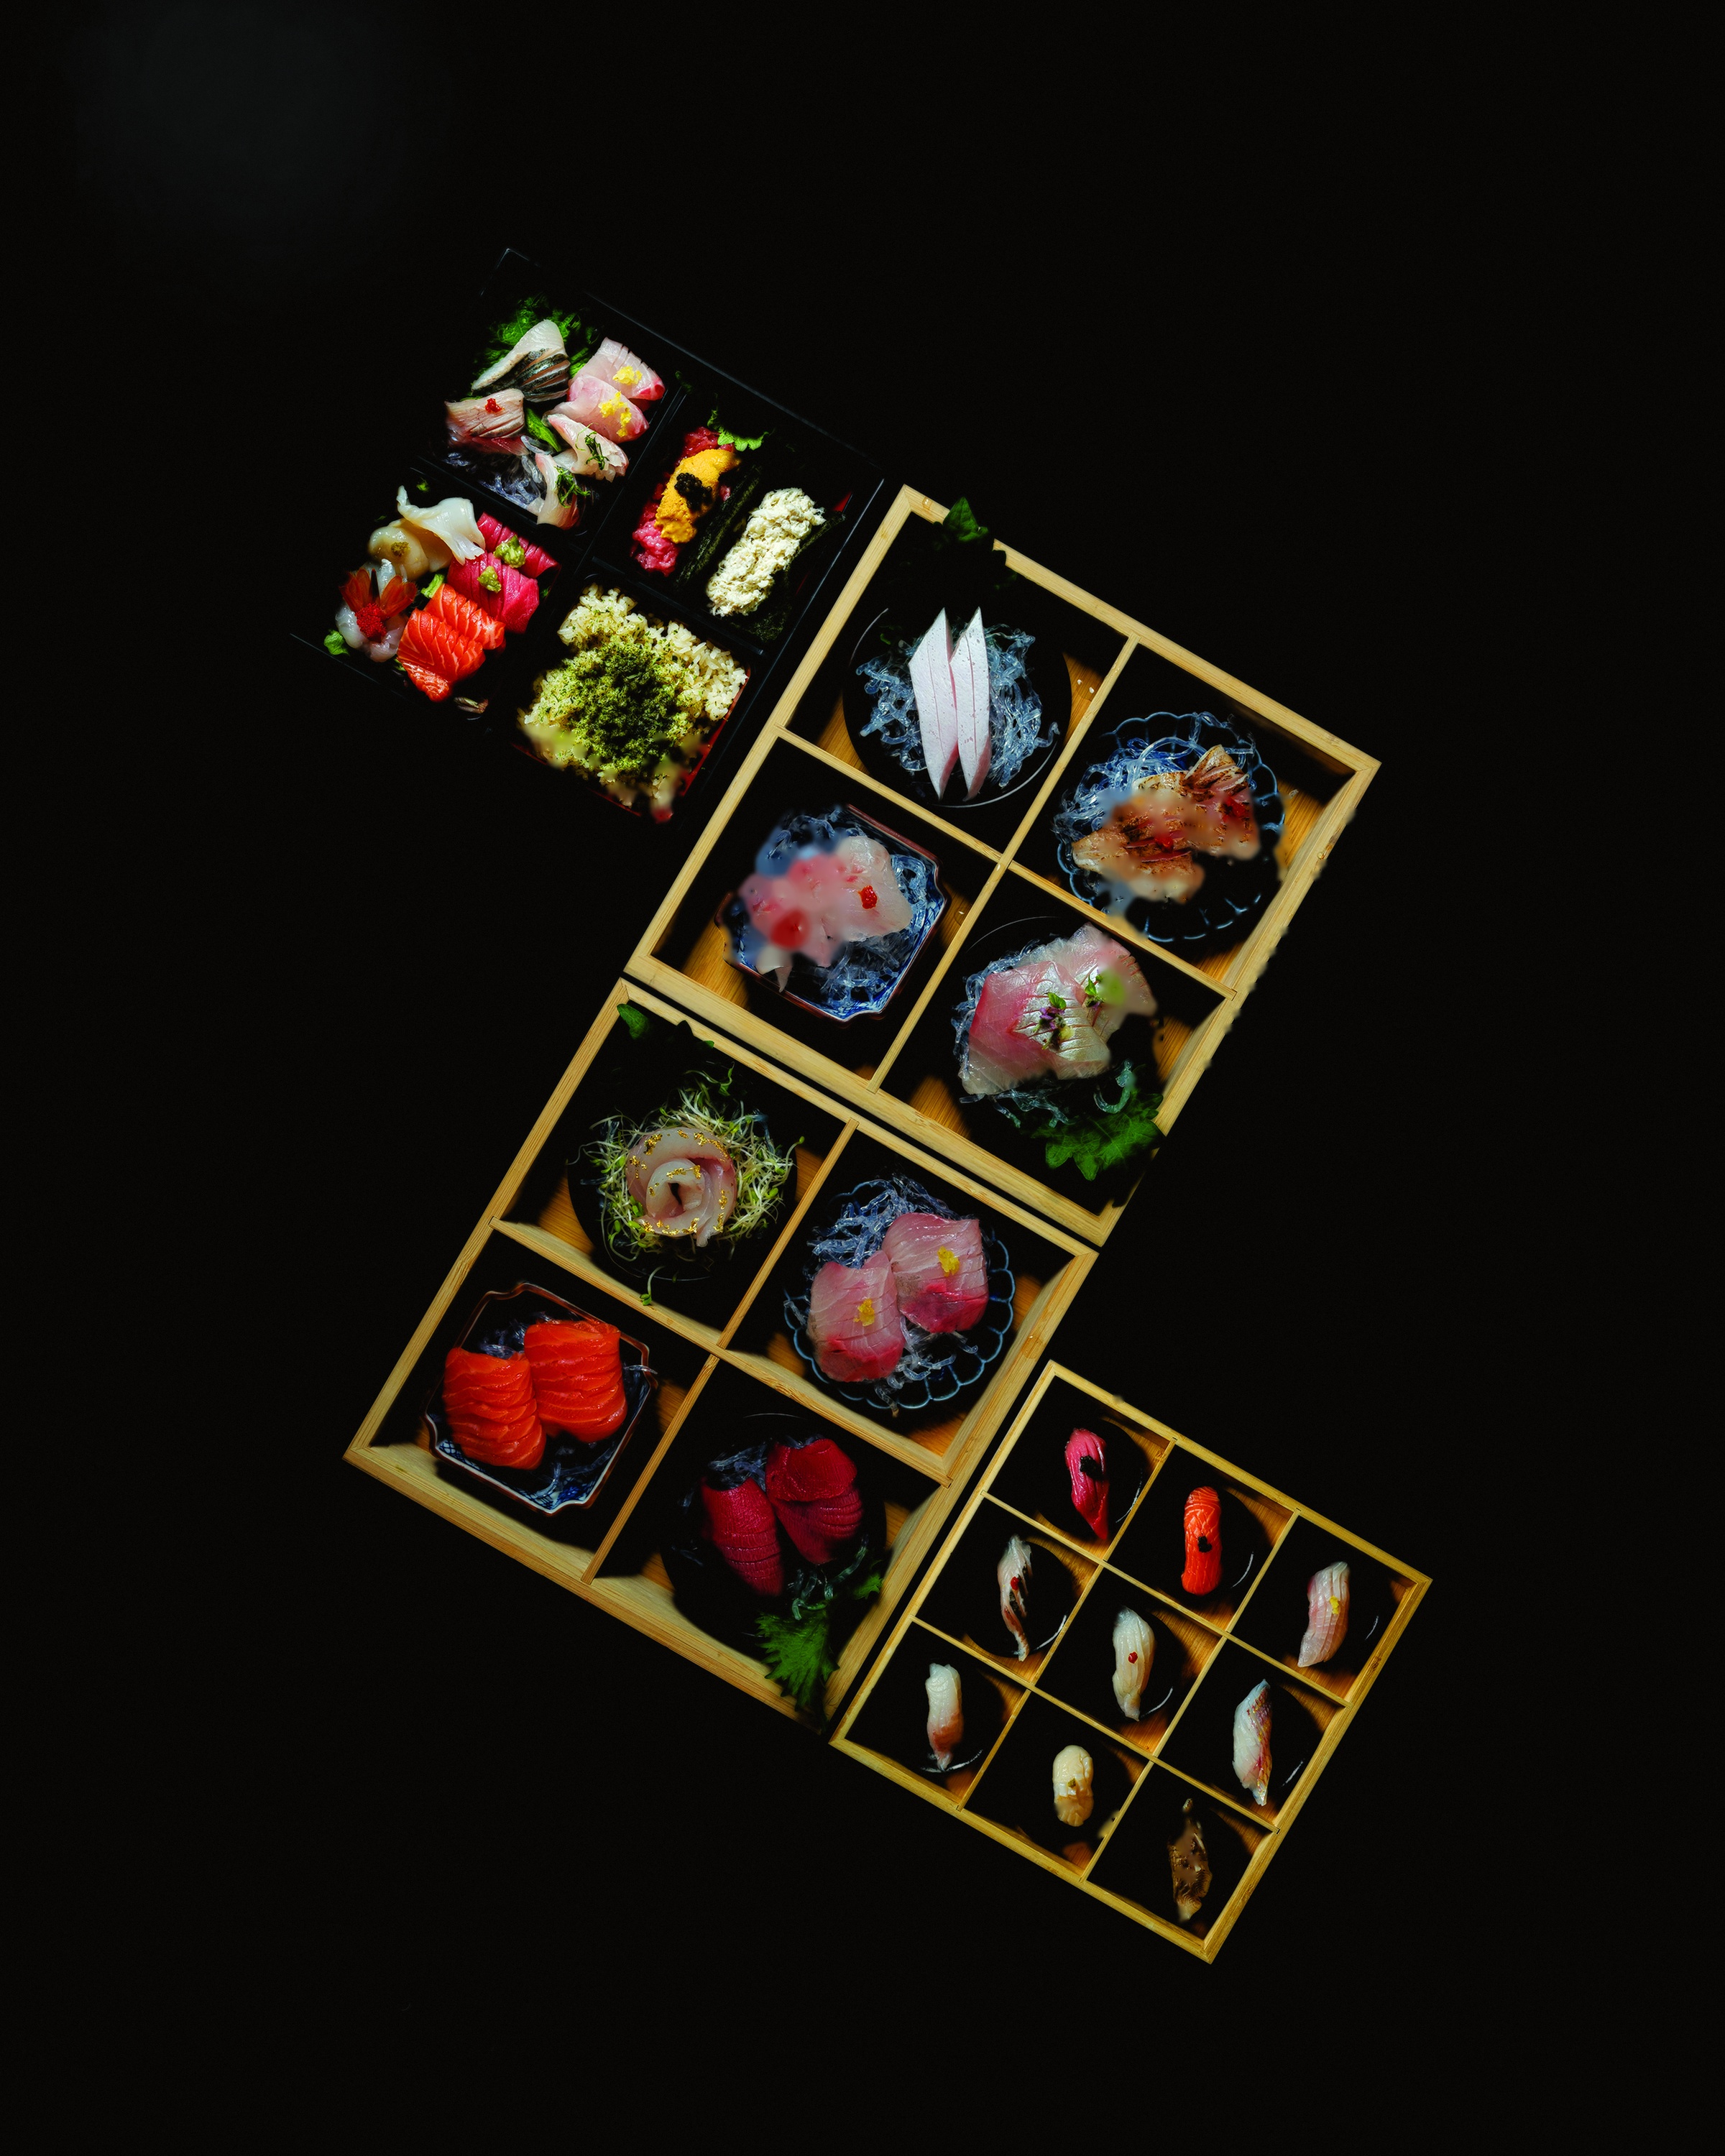
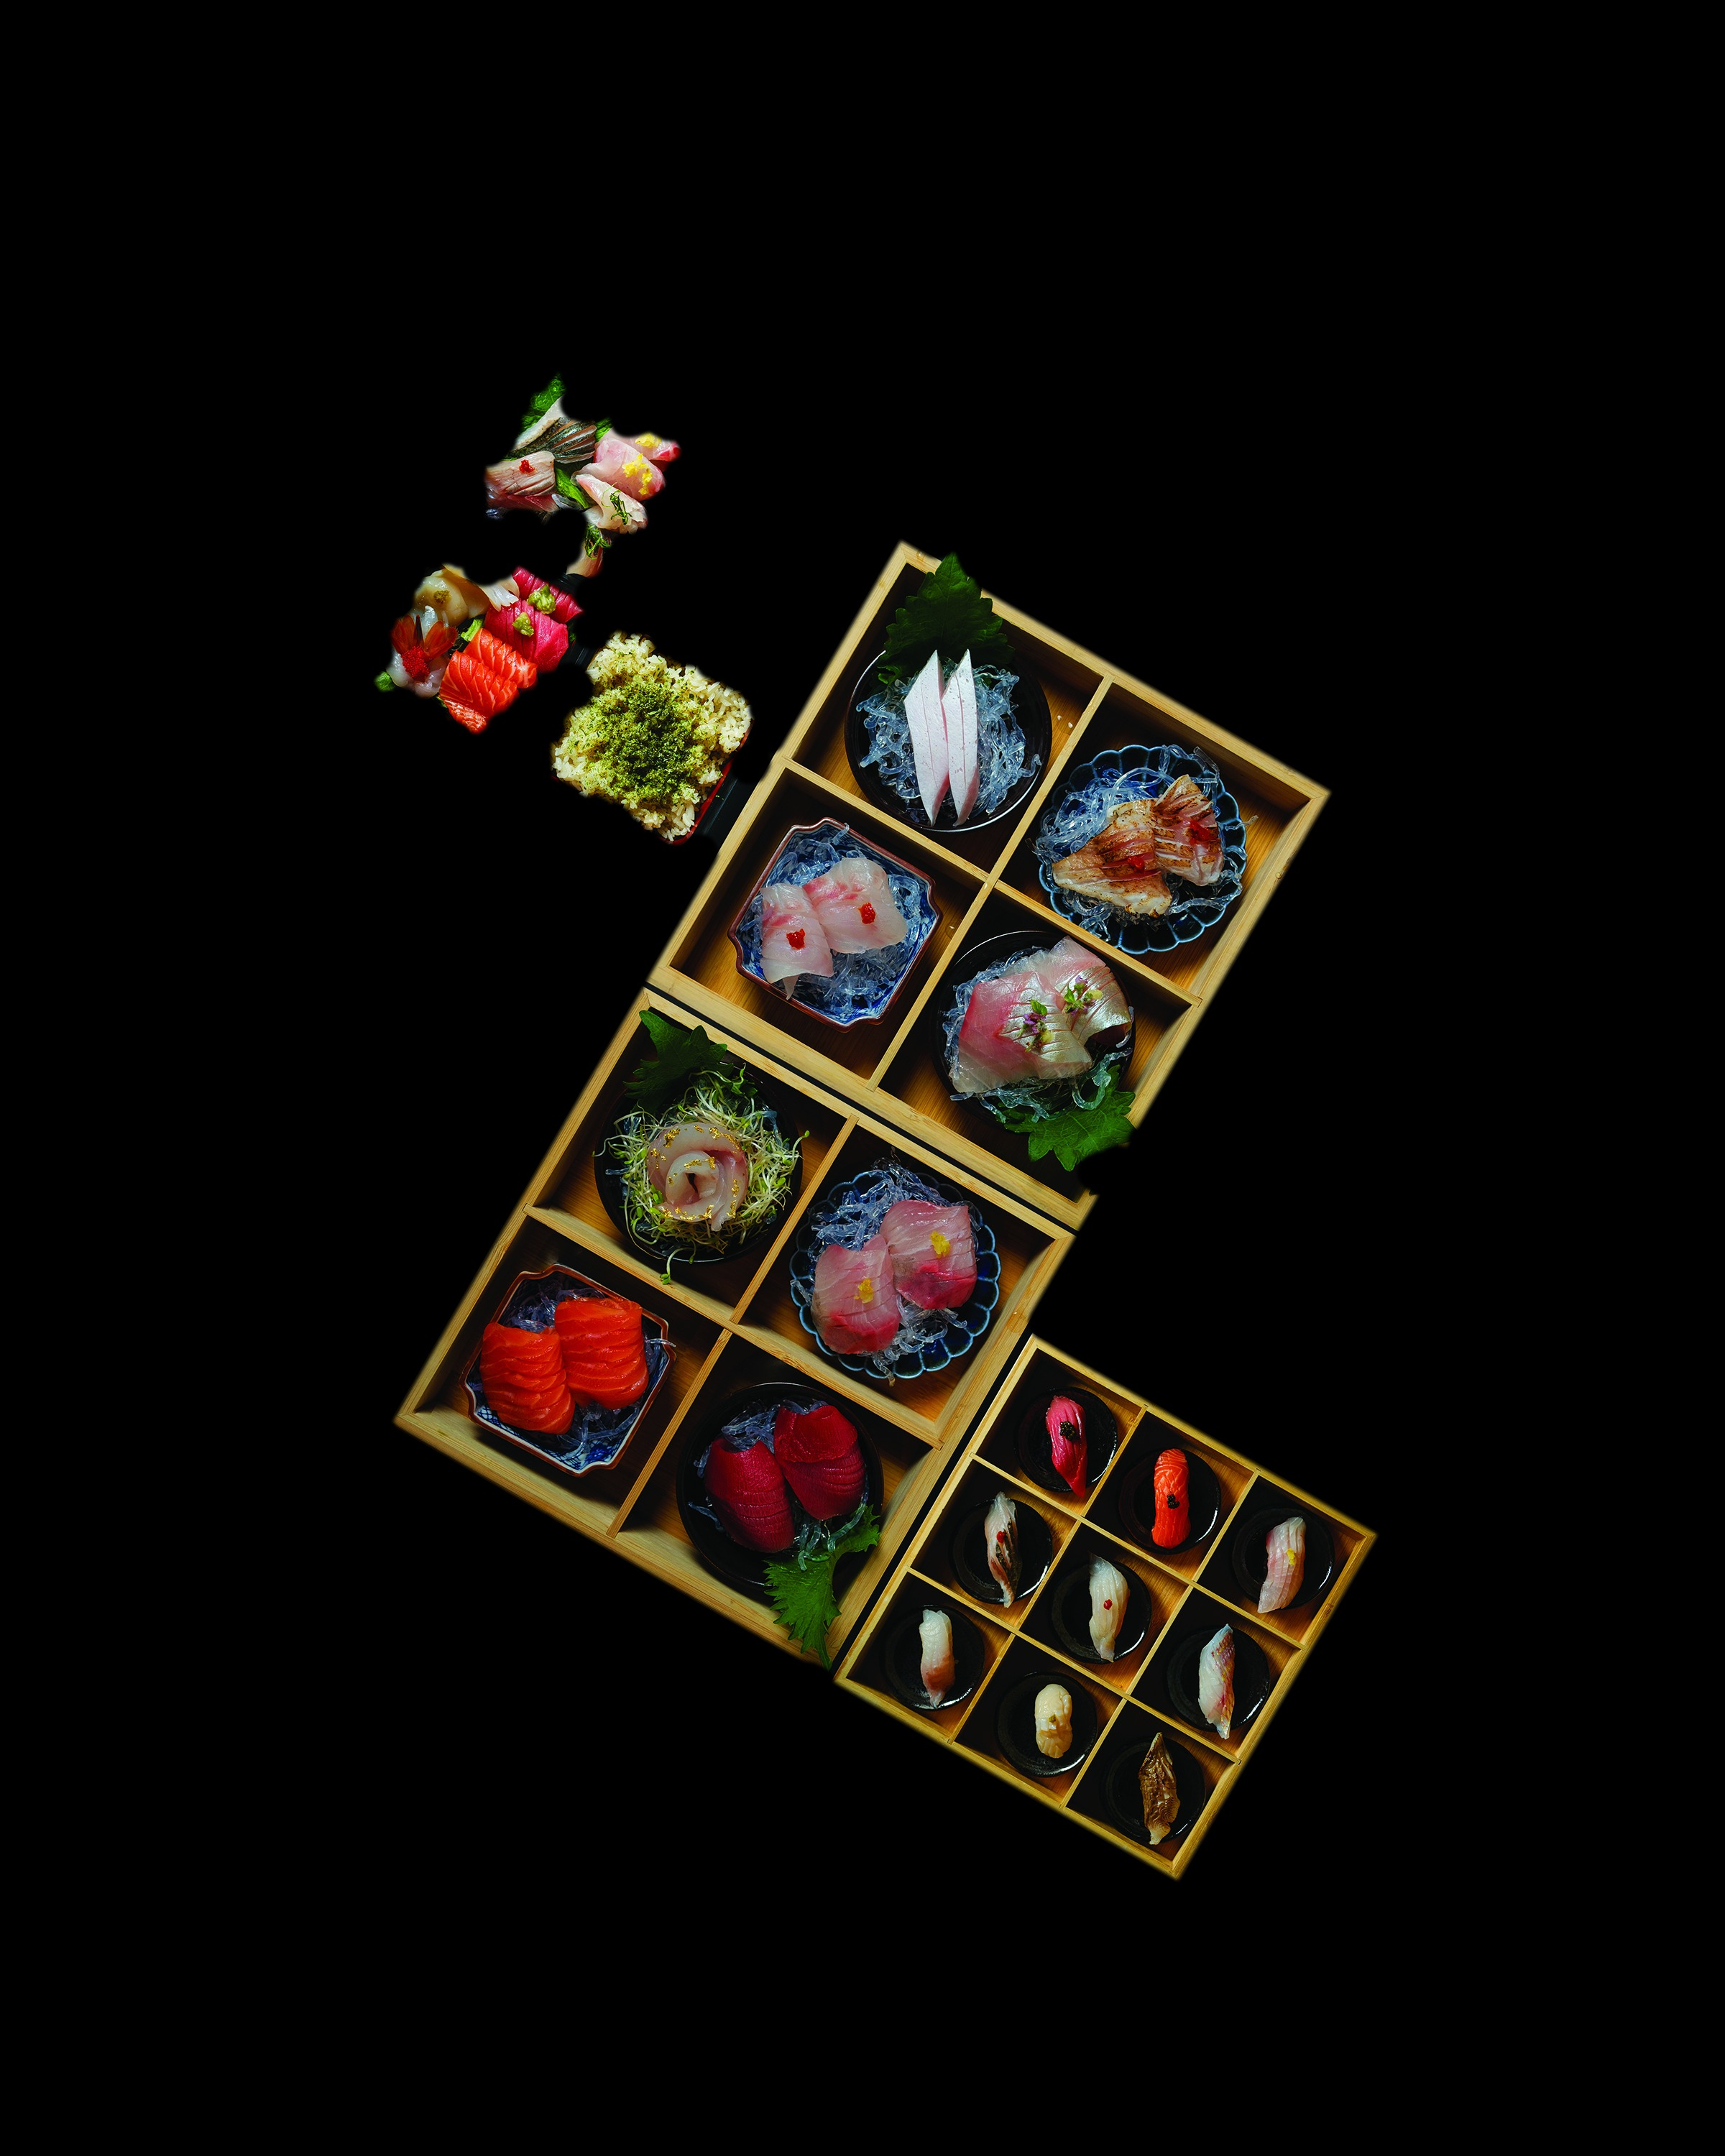
checkpoint: WIP before design-critic contrast/CTA fixes

Changed region(s): [[0.1875, 0.124, 0.8438, 0.93]]

diff --git a/src/pages/Home.jsx b/src/pages/Home.jsx
@@ -1,3 +1,4 @@
+import { useState, useEffect } from 'react'
 import { Link } from 'react-router-dom'
 
 const FEATURED = [
@@ -15,6 +16,9 @@ export default function Home() {
     <div>
       {/* ─── HERO ──────────────────────────────────────────── */}
       <section className="relative min-h-screen flex flex-col items-center justify-center overflow-hidden bg-void">
+        {/* Background photography — submerged beneath the theme */}
+        <div className="hero-photo" style={{ backgroundImage: 'url(/hero/hero-home.jpg)', backgroundPosition: 'center 38%' }} aria-hidden="true" />
+        <div className="hero-scrim" aria-hidden="true" />
         {/* Ambient radial glow */}
         <div className="absolute inset-0 pointer-events-none"
           style={{ background: 'radial-gradient(ellipse 65% 55% at 50% 42%, rgba(200,169,110,0.055) 0%, transparent 65%)' }}
@@ -90,8 +94,8 @@ export default function Home() {
 
             <div className="relative">
               <div className="aspect-[4/5] overflow-hidden shadow-card-up">
-                <img src="/8X10_PRINT_3BOX.jpg" alt="Taberu sushi presentation" className="w-full h-full object-cover" />
-                <div className="absolute inset-0 bg-gradient-to-t from-black/50 to-transparent mix-blend-multiply" />
+                <img src="/8X10_PRINT_3BOX.jpg" alt="Taberu sushi presentation" className="w-full h-full object-cover" style={{ filter: 'contrast(0.86) brightness(1.03)' }} />
+                <div className="absolute inset-0 bg-gradient-to-t from-black/40 to-transparent mix-blend-multiply" />
               </div>
               <div className="absolute -bottom-5 -right-5 w-24 h-24 border-b border-r border-gold/20 hidden md:block" />
               <div className="absolute -top-5 -left-5 w-24 h-24 border-t border-l border-gold/20 hidden md:block" />
@@ -204,42 +208,86 @@ function DishCard({ dish }) {
   )
 }
 
-const IG_PLACEHOLDERS = [
-  { c: '1c1a16', t: 'Nigiri+Set' },
-  { c: '242119', t: 'Sashimi' },
-  { c: '2d2a23', t: 'Omakase' },
-  { c: '3d392f', t: 'Uni+Nigiri' },
-  { c: '1c1a16', t: 'Toro' },
-  { c: '242119', t: 'Chirashi' },
+// Mock Instagram feed — first-frame stills from the @taberu__sushi fish-feature reels.
+// Ordered for visual variety (red / silver / dark fish interleaved).
+// To go live, paste a real BEHOLD_FEED_ID above and this static grid is bypassed.
+const IG_FEED = [
+  { src: '/feed/madai.jpg',          alt: 'Madai · red sea bream' },
+  { src: '/feed/kohada.jpg',         alt: 'Kohada · gizzard shad' },
+  { src: '/feed/blackcod.jpg',       alt: 'Black cod · sablefish' },
+  { src: '/feed/shimaaji.jpg',       alt: 'Shima aji · striped jack' },
+  { src: '/feed/kinmedai.jpg',       alt: 'Kinmedai · golden eye snapper' },
+  { src: '/feed/sayori.jpg',         alt: 'Sayori · halfbeak' },
+  { src: '/feed/kanpachi.jpg',       alt: 'Kanpachi · amberjack' },
+  { src: '/feed/kurodai.jpg',        alt: 'Kurodai · black sea bream' },
+  { src: '/feed/fujisalmon.jpg',     alt: 'Fuji salmon' },
+  { src: '/feed/itoyori.jpg',        alt: 'Itoyori · threadfin bream' },
+  { src: '/feed/matsukawagarei.jpg', alt: 'Matsukawa garei · flounder' },
+  { src: '/feed/kamasu.jpg',         alt: 'Kamasu · barracuda' },
+  { src: '/feed/mejina.jpg',         alt: 'Mejina · largescale blackfish' },
+  { src: '/feed/ojisan.jpg',         alt: 'Ojisan · goatfish' },
+  { src: '/feed/sagoshi.jpg',        alt: 'Sagoshi · Spanish mackerel' },
 ]
+
+// How many tiles are visible at once, and how often one swaps for a fresh fish.
+const FEED_VISIBLE = 8
+const FEED_ROTATE_MS = 3200
+
+// Static fallback feed: shows 8 of the 16 fish at a time and rotates one tile
+// at a time so the whole catalog cycles through, mimicking a live feed.
+function RotatingFeed() {
+  const [tiles, setTiles] = useState(() =>
+    IG_FEED.slice(0, FEED_VISIBLE).map((item, i) => ({ ...item, gen: i }))
+  )
+
+  useEffect(() => {
+    if (IG_FEED.length <= FEED_VISIBLE) return
+    let next = FEED_VISIBLE % IG_FEED.length
+    let slot = 0
+    let gen = FEED_VISIBLE
+    const id = setInterval(() => {
+      setTiles((prev) => {
+        const copy = prev.slice()
+        copy[slot] = { ...IG_FEED[next], gen }
+        return copy
+      })
+      next = (next + 1) % IG_FEED.length
+      slot = (slot + 1) % FEED_VISIBLE
+      gen += 1
+    }, FEED_ROTATE_MS)
+    return () => clearInterval(id)
+  }, [])
+
+  return (
+    <div className="grid grid-cols-2 md:grid-cols-4 gap-2 md:gap-3">
+      {tiles.map((item, i) => (
+        <a
+          key={i}
+          href="https://instagram.com/taberu__sushi"
+          target="_blank"
+          rel="noopener noreferrer"
+          className="group relative aspect-square overflow-hidden block focus-visible:outline-2 focus-visible:outline-gold focus-visible:outline-offset-2"
+        >
+          <img
+            key={item.gen}
+            src={item.src}
+            alt={item.alt}
+            loading="lazy"
+            className="anim-fade-in w-full h-full object-cover transition-transform duration-700 group-hover:scale-105"
+          />
+          <div className="absolute inset-0 bg-black/0 group-hover:bg-black/45 transition-colors duration-400 flex items-center justify-center">
+            <IgIconLg className="text-ivory opacity-0 group-hover:opacity-100 transition-opacity duration-300 w-7 h-7" />
+          </div>
+        </a>
+      ))}
+    </div>
+  )
+}
 
 function BeholdGrid({ feedId }) {
   const isPlaceholder = !feedId || feedId === 'YOUR_FEED_ID'
 
-  if (isPlaceholder) {
-    return (
-      <div className="grid grid-cols-3 gap-2 md:gap-3">
-        {IG_PLACEHOLDERS.map(({ c, t }, i) => (
-          <a
-            key={i}
-            href="https://instagram.com/taberu__sushi"
-            target="_blank"
-            rel="noopener noreferrer"
-            className="group relative aspect-square overflow-hidden block focus-visible:outline-2 focus-visible:outline-gold focus-visible:outline-offset-2"
-          >
-            <img
-              src={`https://placehold.co/600x600/${c}/c8a96e?text=${t}`}
-              alt={t.replace('+', ' ')}
-              className="w-full h-full object-cover transition-transform duration-700 group-hover:scale-105"
-            />
-            <div className="absolute inset-0 bg-black/0 group-hover:bg-black/45 transition-colors duration-400 flex items-center justify-center">
-              <IgIconLg className="text-ivory opacity-0 group-hover:opacity-100 transition-opacity duration-300 w-7 h-7" />
-            </div>
-          </a>
-        ))}
-      </div>
-    )
-  }
+  if (isPlaceholder) return <RotatingFeed />
 
   return <behold-widget feed-id={feedId} />
 }

diff --git a/src/pages/About.jsx b/src/pages/About.jsx
@@ -1,10 +1,10 @@
 import { Link } from 'react-router-dom'
 
 const VALUES = [
-  { kanji: '旬', romaji: 'Shun',   title: 'Seasonality',     desc: 'We serve only what the season provides. No shortcuts. No frozen fish. Every piece reflects the current moment in nature.' },
-  { kanji: '技', romaji: 'Waza',   title: 'Technique',       desc: 'Years of practice behind every cut. The angle of the knife, the pressure of the hand, the temperature of the rice — all matter.' },
-  { kanji: '誠', romaji: 'Makoto', title: 'Integrity',       desc: 'Honest sourcing, transparent preparation, genuine hospitality. No theater. No fusion gimmicks. Just the fish, the rice, and the craft.' },
-  { kanji: '間', romaji: 'Ma',     title: 'Negative Space',  desc: 'The beauty in what is left out. We resist overcomplication. A great piece of sushi needs nothing added.' },
+  { kanji: '旬', romaji: 'Shun',   title: 'Seasonality',     img: '/principles/seasonality.jpg',    desc: 'We serve only what the season provides. No shortcuts. No frozen fish. Every piece reflects the current moment in nature.' },
+  { kanji: '技', romaji: 'Waza',   title: 'Technique',       img: '/principles/technique.jpg',      desc: 'Years of practice behind every cut. The angle of the knife, the pressure of the hand, the temperature of the rice — all matter.' },
+  { kanji: '誠', romaji: 'Makoto', title: 'Integrity',       img: '/principles/integrity.jpg',      desc: 'Honest sourcing, transparent preparation, genuine hospitality. No theater. No fusion gimmicks. Just the fish, the rice, and the craft.' },
+  { kanji: '間', romaji: 'Ma',     title: 'Negative Space',  img: '/principles/negative-space.jpg', desc: 'The beauty in what is left out. We resist overcomplication. A great piece of sushi needs nothing added.' },
 ]
 
 export default function About() {
@@ -12,6 +12,9 @@ export default function About() {
     <div className="min-h-screen bg-obsidian pt-18">
       {/* Hero */}
       <div className="relative overflow-hidden py-20 md:py-32 bg-carbon">
+        {/* Background photography — submerged beneath the theme */}
+        <div className="hero-photo" style={{ backgroundImage: 'url(/hero/hero-about.jpg)', backgroundPosition: 'center 55%' }} aria-hidden="true" />
+        <div className="hero-scrim hero-scrim-left" aria-hidden="true" />
         <div className="absolute inset-0 pointer-events-none"
           style={{ background: 'radial-gradient(ellipse 65% 65% at 50% 100%, rgba(200,169,110,0.06) 0%, transparent 60%)' }}
         />
@@ -19,11 +22,11 @@ export default function About() {
           <div className="max-w-2xl">
             <p className="label-caps mb-5">Our Philosophy</p>
             <h1 className="font-display text-ivory mb-6 tracking-display" style={{ fontSize: 'var(--font-size-hero)', lineHeight: 'var(--line-height-hero)' }}>
-              The art of<br />
-              <span className="italic text-gradient">knowing when to stop</span>
+              We serve<br />
+              <span className="italic text-gradient">what the day gives</span>
             </h1>
             <p className="font-body text-parchment/80 text-base leading-body max-w-lg">
-              Great sushi is not defined by what you add — it is defined by knowing when to stop.
+              No frozen fish. No fixed menu. No shortcuts. Every piece reflects the season's best — chosen that morning, served that night.
             </p>
           </div>
         </div>
@@ -52,14 +55,14 @@ export default function About() {
 
             <div className="relative">
               <div className="aspect-[4/5] overflow-hidden shadow-card-up">
-                <img src="https://placehold.co/600x750/1c1a16/c8a96e?text=Chef+%2F+Team" alt="Taberu team" className="w-full h-full object-cover" />
+                <img src="/taberu-team.jpg" alt="Taberu itamae preparing sashimi behind the counter" className="w-full h-full object-cover" />
                 <div className="absolute inset-0 bg-gradient-to-t from-black/55 to-transparent mix-blend-multiply" />
               </div>
               <div className="absolute -bottom-6 -right-6 w-24 h-24 border-b border-r border-gold/18 hidden md:block" style={{ borderColor: 'rgba(200,169,110,0.18)' }} />
               <div className="absolute -top-4 -left-4 w-24 h-24 border-t border-l border-gold/18 hidden md:block" style={{ borderColor: 'rgba(200,169,110,0.18)' }} />
               {/* Floating secondary image */}
               <div className="absolute -bottom-10 -right-8 w-2/3 overflow-hidden shadow-card hidden md:block">
-                <img src="https://placehold.co/400x400/242119/8c7448?text=Interior" alt="Restaurant interior" className="w-full h-full object-cover" />
+                <img src="/taberu-interior.jpg" alt="Taberu Sushi dining room and sushi counter" className="w-full h-full object-cover" />
                 <div className="absolute inset-0 bg-gradient-to-t from-black/45 to-transparent mix-blend-multiply" />
               </div>
             </div>
@@ -89,7 +92,7 @@ export default function About() {
           <div className="grid md:grid-cols-2 gap-14 md:gap-18 items-center">
             <div className="relative order-2 md:order-1">
               <div className="aspect-[3/4] overflow-hidden shadow-card-up">
-                <img src="https://placehold.co/500x667/1c1a16/c8a96e?text=Omakase+Course" alt="Omakase presentation" className="w-full h-full object-cover" />
+                <img src="/frames/OMAKASE.jpg" alt="Taberu omakase course presentation" className="w-full h-full object-cover" />
                 <div className="absolute inset-0 bg-gradient-to-t from-black/50 to-transparent mix-blend-multiply" />
               </div>
               <div className="absolute -bottom-4 -right-4 w-20 h-20 border-b border-r hidden md:block" style={{ borderColor: 'rgba(200,169,110,0.18)' }} />
@@ -127,22 +130,35 @@ export default function About() {
   )
 }
 
-function ValueCard({ kanji, romaji, title, desc }) {
+function ValueCard({ kanji, romaji, title, desc, img }) {
   return (
     <div
-      className="group p-7 bg-surface hover:-translate-y-1 transition-transform duration-400 cursor-default shadow-card hover:shadow-card-up transition-shadow duration-400"
+      className="group relative overflow-hidden p-7 bg-surface hover:-translate-y-1 transition-transform duration-400 cursor-default shadow-card hover:shadow-card-up"
       style={{ border: '1px solid rgba(200,169,110,0.07)' }}
       onMouseEnter={e => e.currentTarget.style.borderColor = 'rgba(200,169,110,0.18)'}
       onMouseLeave={e => e.currentTarget.style.borderColor = 'rgba(200,169,110,0.07)'}
     >
-      <div className="mb-5">
-        <span className="font-display text-gold block mb-1" style={{ fontSize: '3.2rem', lineHeight: 1, opacity: 0.22 }}>
-          {kanji}
-        </span>
-        <span className="label-caps text-gold/55" style={{ fontSize: '0.55rem' }}>{romaji}</span>
+      {/* Darkened background photo */}
+      <img
+        src={img}
+        alt=""
+        aria-hidden="true"
+        loading="lazy"
+        className="absolute inset-0 w-full h-full object-cover opacity-25 group-hover:opacity-35 group-hover:scale-105 transition-all duration-700"
+      />
+      <div className="absolute inset-0 bg-gradient-to-t from-surface via-surface/85 to-surface/70" />
+
+      {/* Content */}
+      <div className="relative">
+        <div className="mb-5">
+          <span className="font-display text-gold block mb-1" style={{ fontSize: '3.2rem', lineHeight: 1, opacity: 0.22 }}>
+            {kanji}
+          </span>
+          <span className="label-caps text-gold/55" style={{ fontSize: '0.55rem' }}>{romaji}</span>
+        </div>
+        <h3 className="font-display italic text-lg text-ivory mb-3">{title}</h3>
+        <p className="font-body text-xs text-stone leading-relaxed">{desc}</p>
       </div>
-      <h3 className="font-display italic text-lg text-ivory mb-3">{title}</h3>
-      <p className="font-body text-xs text-stone leading-relaxed">{desc}</p>
     </div>
   )
 }

diff --git a/src/index.css b/src/index.css
@@ -97,6 +97,49 @@ body {
   background-size: 256px 256px;
 }
 
+/* ─── HERO BACKGROUND PHOTOGRAPHY ───────────────────────────────────────────── */
+/* Reusable treatment: a dark, warm-graded photo submerged beneath the obsidian
+   theme. The image reads as atmosphere — low opacity, edge vignette dissolving to
+   void, plus a scrim for text legibility. Existing radial glow + kanji watermark
+   sit ON TOP of this. Set background-position per page via inline style. */
+.hero-photo {
+  position: absolute;
+  inset: 0;
+  z-index: 0;
+  background-size: cover;
+  background-position: center;
+  background-repeat: no-repeat;
+  opacity: 0.42;
+  filter: saturate(0.82) brightness(0.86) contrast(1.04);
+  pointer-events: none;
+}
+/* Warm gold-tinted multiply unifies any stray cool tones into the brand palette */
+.hero-photo::after {
+  content: '';
+  position: absolute;
+  inset: 0;
+  background: linear-gradient(135deg, rgba(200,169,110,0.10), rgba(140,116,72,0.05));
+  mix-blend-mode: multiply;
+}
+.hero-scrim {
+  position: absolute;
+  inset: 0;
+  z-index: 0;
+  pointer-events: none;
+  background:
+    /* edge vignette — dissolve photo into the void at all four edges */
+    radial-gradient(ellipse 78% 72% at 50% 48%, transparent 0%, rgba(8,7,6,0.45) 62%, var(--color-void) 100%),
+    /* top + bottom darken for nav clearance and grounding */
+    linear-gradient(180deg, rgba(8,7,6,0.78) 0%, rgba(8,7,6,0.30) 32%, rgba(8,7,6,0.42) 70%, rgba(8,7,6,0.85) 100%);
+}
+/* Variant for left-aligned page headers — bias darkness to the left so copy stays legible */
+.hero-scrim-left {
+  background:
+    radial-gradient(ellipse 85% 80% at 30% 50%, transparent 0%, rgba(8,7,6,0.40) 60%, var(--color-void) 100%),
+    linear-gradient(90deg, rgba(8,7,6,0.85) 0%, rgba(8,7,6,0.55) 42%, rgba(8,7,6,0.30) 75%, rgba(8,7,6,0.55) 100%),
+    linear-gradient(180deg, rgba(8,7,6,0.55) 0%, transparent 40%, rgba(8,7,6,0.78) 100%);
+}
+
 /* ─── SCROLLBAR ─────────────────────────────────────────────────────────────── */
 ::-webkit-scrollbar        { width: 5px; }
 ::-webkit-scrollbar-track  { background: var(--color-obsidian); }

diff --git a/src/pages/Contact.jsx b/src/pages/Contact.jsx
@@ -8,6 +8,9 @@ export default function Contact() {
     <div className="min-h-screen bg-obsidian pt-18">
       {/* Header */}
       <div className="relative overflow-hidden py-20 md:py-28 bg-carbon">
+        {/* Background photography — submerged beneath the theme */}
+        <div className="hero-photo" style={{ backgroundImage: 'url(/hero/hero-contact.jpg)', backgroundPosition: '68% 50%' }} aria-hidden="true" />
+        <div className="hero-scrim" aria-hidden="true" />
         <div className="absolute inset-0 pointer-events-none"
           style={{ background: 'radial-gradient(ellipse 60% 60% at 50% 100%, rgba(200,169,110,0.06) 0%, transparent 60%)' }}
         />

diff --git a/src/pages/Menu.jsx b/src/pages/Menu.jsx
@@ -267,6 +267,9 @@ export default function Menu() {
     <div className="min-h-screen bg-obsidian pt-18">
       {/* Page header */}
       <div className="relative overflow-hidden py-20 md:py-28 bg-carbon">
+        {/* Background photography — submerged beneath the theme */}
+        <div className="hero-photo" style={{ backgroundImage: 'url(/hero/hero-menu.jpg)', backgroundPosition: '80% 58%' }} aria-hidden="true" />
+        <div className="hero-scrim" aria-hidden="true" />
         <div className="absolute inset-0 pointer-events-none"
           style={{ background: 'radial-gradient(ellipse 60% 60% at 50% 100%, rgba(200,169,110,0.06) 0%, transparent 60%)' }}
         />

diff --git a/public/hero/CREDITS.md b/public/hero/CREDITS.md
@@ -1,0 +1,17 @@
+# Hero background photography
+
+Source: [Unsplash](https://unsplash.com) (free to use under the Unsplash License;
+attribution appreciated but not required). Downloaded 2026-06-29.
+
+| File | Unsplash photo ID | Used on |
+|------|-------------------|---------|
+| `hero-home.jpg`    | `photo-1615361200098-9e630ec29b4e` | Home hero |
+| `hero-about.jpg`   | `photo-1607301405418-780ee5e6dd10` | About header |
+| `hero-menu.jpg`    | `photo-1583623025817-d180a2221d0a` | Menu header |
+| `hero-contact.jpg` | `photo-[phone redacted]-216ffe128142` | Contact header |
+
+To re-fetch at a given size: `https://images.unsplash.com/<photo-id>?w=2400&q=72&fm=jpg&fit=crop`
+
+Treatment lives in `src/index.css` (`.hero-photo`, `.hero-scrim`, `.hero-scrim-left`):
+the image sits at ~42% opacity, warm-graded, beneath a vignette/scrim that dissolves
+it into the obsidian theme and keeps gold/ivory text legible.